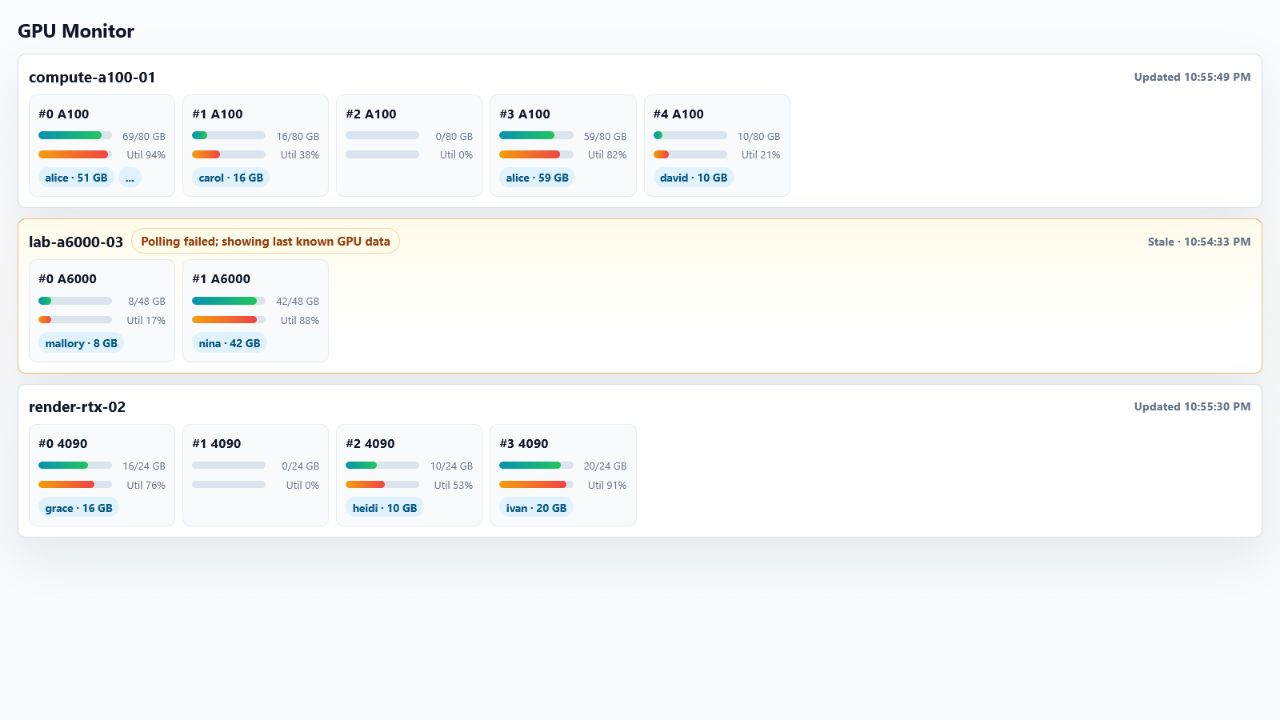
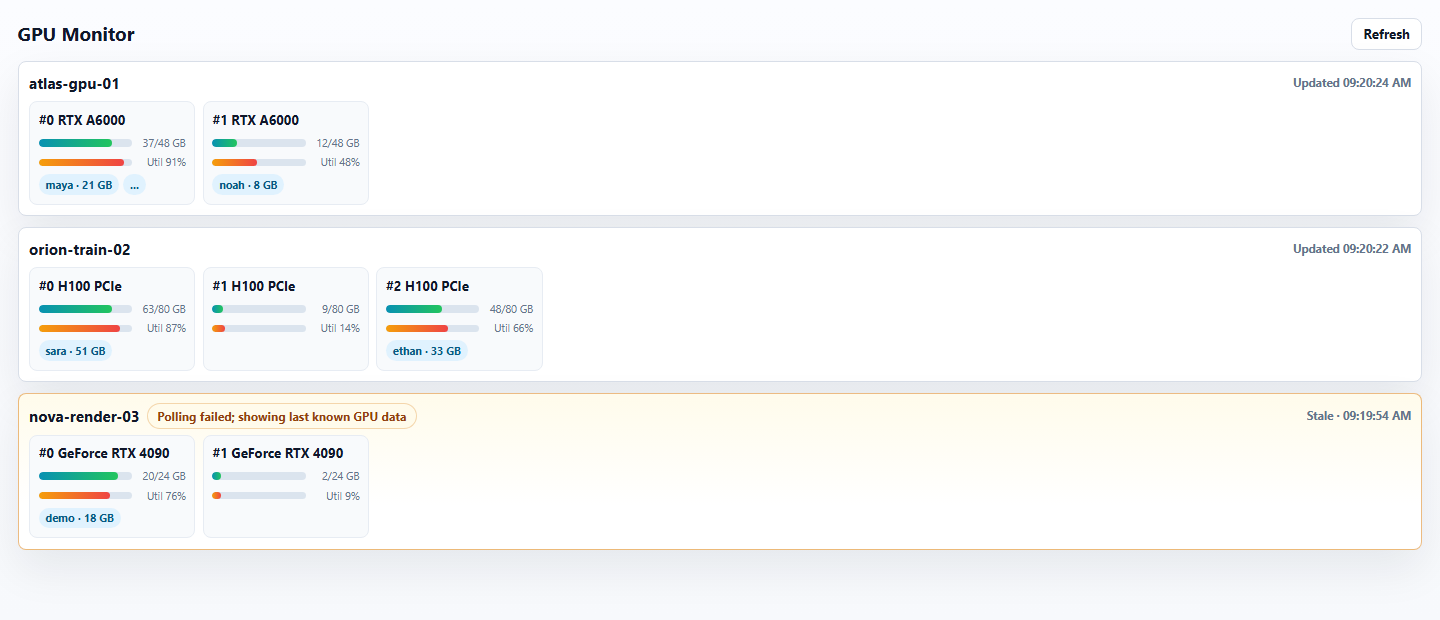
Update package docs and GPU label display

diff --git a/gpu_monitor/static/app.js b/gpu_monitor/static/app.js
@@ -53,12 +53,7 @@ function formatMemoryGb(memoryMb) {
 }
 
 function formatGpuName(name) {
-    const normalized = String(name || "").toUpperCase();
-    const match = normalized.match(/(A\d{3,4}|\d{4})/);
-    if (!match) {
-        return name || "GPU";
-    }
-    return match[1];
+    return String(name || "GPU").replace(/^NVIDIA\s+/i, "");
 }
 
 function renderPrimaryProcess(processes) {
@@ -214,8 +209,9 @@ function renderServerCard(card, server) {
 
             const gpuHeader = document.createElement("div");
             gpuHeader.className = "gpu-header";
+            const gpuName = formatGpuName(gpu.name);
             gpuHeader.innerHTML = `
-                <span class="gpu-name">#${gpu.index} ${escapeHtml(formatGpuName(gpu.name))}</span>
+                <span class="gpu-name" title="${escapeHtml(gpuName)}">#${gpu.index} ${escapeHtml(gpuName)}</span>
             `;
             gpuDiv.appendChild(gpuHeader);
 

diff --git a/gpu_monitor/static/styles.css b/gpu_monitor/static/styles.css
@@ -211,8 +211,9 @@ h1 {
 
 .gpu-header {
     min-height: 0;
-    display: flex;
-    align-items: flex-start;
+    min-width: 0;
+    width: 100%;
+    overflow: hidden;
     color: #0f172a;
     font-size: 0.82rem;
     font-weight: 760;
@@ -220,6 +221,10 @@ h1 {
 }
 
 .gpu-name {
+    display: block;
+    width: 100%;
+    min-width: 0;
+    max-width: 100%;
     overflow: hidden;
     text-overflow: ellipsis;
     white-space: nowrap;

diff --git a/README.md b/README.md
@@ -1,56 +1,64 @@
 # GPU Monitor
 
-GPU Monitor is a browser-based tool for checking GPU usage across multiple servers. Configure your servers, start the web service, and open the page to see GPU memory usage, utilization, and active compute processes.
+GPU Monitor is a small browser-based dashboard for checking GPU usage across SSH-accessible servers. It shows GPU memory usage, utilization, and active compute users without requiring an agent on the target machines.
 
 ## Preview
 
 ![GPU Monitor screenshot](https://raw.githubusercontent.com/NingChenTHU/gpu-monitor/main/docs/assets/gpu-monitor-screenshot.png)
 
-## What It Is For
+## Features
 
-- Check whether GPUs are currently available across multiple servers.
-- View GPU memory usage and utilization.
-- See which users and processes are using GPUs.
-- Keep the last successful data visible when a server is temporarily unreachable.
+- Monitor multiple GPU servers from one page.
+- Show GPU memory usage, utilization, and active process owners.
+- Refresh automatically and provide a manual Refresh button.
+- Keep the last known GPU data visible when a server is temporarily unreachable.
+- Update server cards independently, so a slow host does not block the rest of the dashboard.
 
 ## Requirements
 
-Before using GPU Monitor, make sure you have:
+- Python 3.11 or newer.
+- SSH access from the machine running GPU Monitor to each target server.
+- NVIDIA drivers and `nvidia-smi` on each target server.
 
-- Python 3.11 or newer installed.
-- SSH access from this machine to the servers you want to monitor.
-- NVIDIA drivers installed on the target servers.
-- `nvidia-smi` available on the target servers.
-
-You can verify SSH and GPU access with:
+Before configuring GPU Monitor, verify that SSH can run `nvidia-smi`:
 
 ```sh
 ssh server-a nvidia-smi
 ```
 
-Replace `server-a` with your own SSH host name or server address.
-
 ## Installation
 
-Install GPU Monitor from PyPI:
+Install from PyPI:
 
 ```sh
 python -m pip install gpu-server-monitor
 ```
 
-If `python` is not the command for your Python environment, replace it with the interpreter you normally use.
+## Quick Start
 
-## Server Configuration
-
-Create a configuration file:
+Create a sample configuration file:
 
 ```sh
 gpu-monitor init -c ./config.toml
 ```
 
-Edit the generated TOML file and add the servers you want to monitor.
+Edit `config.toml`, then start the web service:
 
-The recommended approach is to keep connection details in your normal SSH config file, such as `~/.ssh/config` on Linux/macOS or `%USERPROFILE%\.ssh\config` on Windows:
+```sh
+gpu-monitor run -c ./config.toml -H 127.0.0.1 -p 8000
+```
+
+Open:
+
+```text
+http://127.0.0.1:8000/
+```
+
+## Configuration
+
+GPU Monitor uses a TOML configuration file.
+
+The recommended setup is to keep SSH connection details in your normal SSH config file:
 
 ```sshconfig
 Host server-a
@@ -60,7 +68,7 @@ Host server-a
     IdentityFile ~/.ssh/id_rsa
 ```
 
-Then the GPU Monitor configuration only needs the SSH host name:
+Then reference the SSH host name from GPU Monitor:
 
 ```toml
 poll_interval_seconds = 20
@@ -69,7 +77,7 @@ poll_interval_seconds = 20
 Host = "server-a"
 ```
 
-You can also put connection details directly in the GPU Monitor configuration:
+You can also put SSH options directly in the GPU Monitor config:
 
 ```toml
 poll_interval_seconds = 20
@@ -83,37 +91,25 @@ IdentityFile = "~/.ssh/id_rsa"
 ConnectTimeout = 5
 ```
 
-To monitor more servers, add more `[[servers]]` blocks.
+Add more `[[servers]]` blocks to monitor more machines.
 
-## Running
-
-Run GPU Monitor with:
-
-```sh
-gpu-monitor run -c ./config.toml -H 127.0.0.1 -p 8000
-```
-
-Then open this address in your browser:
-
-```text
-http://127.0.0.1:8000/
-```
+`poll_interval_seconds` controls the automatic refresh interval. Restart GPU Monitor after changing the configuration file.
 
 ## Troubleshooting
 
-### No servers appear on the page
+### No servers appear
 
-Check that the TOML file passed to `-c` contains at least one `[[servers]]` block and that each `Host` value is spelled correctly.
+Check that the config file passed to `-c` contains at least one `[[servers]]` block.
 
-### A server cannot be reached
+### A server shows stale data or cannot be reached
 
-First test the connection from your terminal:
+Test the same host from your terminal:
 
 ```sh
 ssh server-a nvidia-smi
 ```
 
-If this command fails, fix the SSH login, key, port, or network issue first.
+If that command fails, fix the SSH login, key, port, or network issue first.
 
 ### Configuration changes do not appear
 